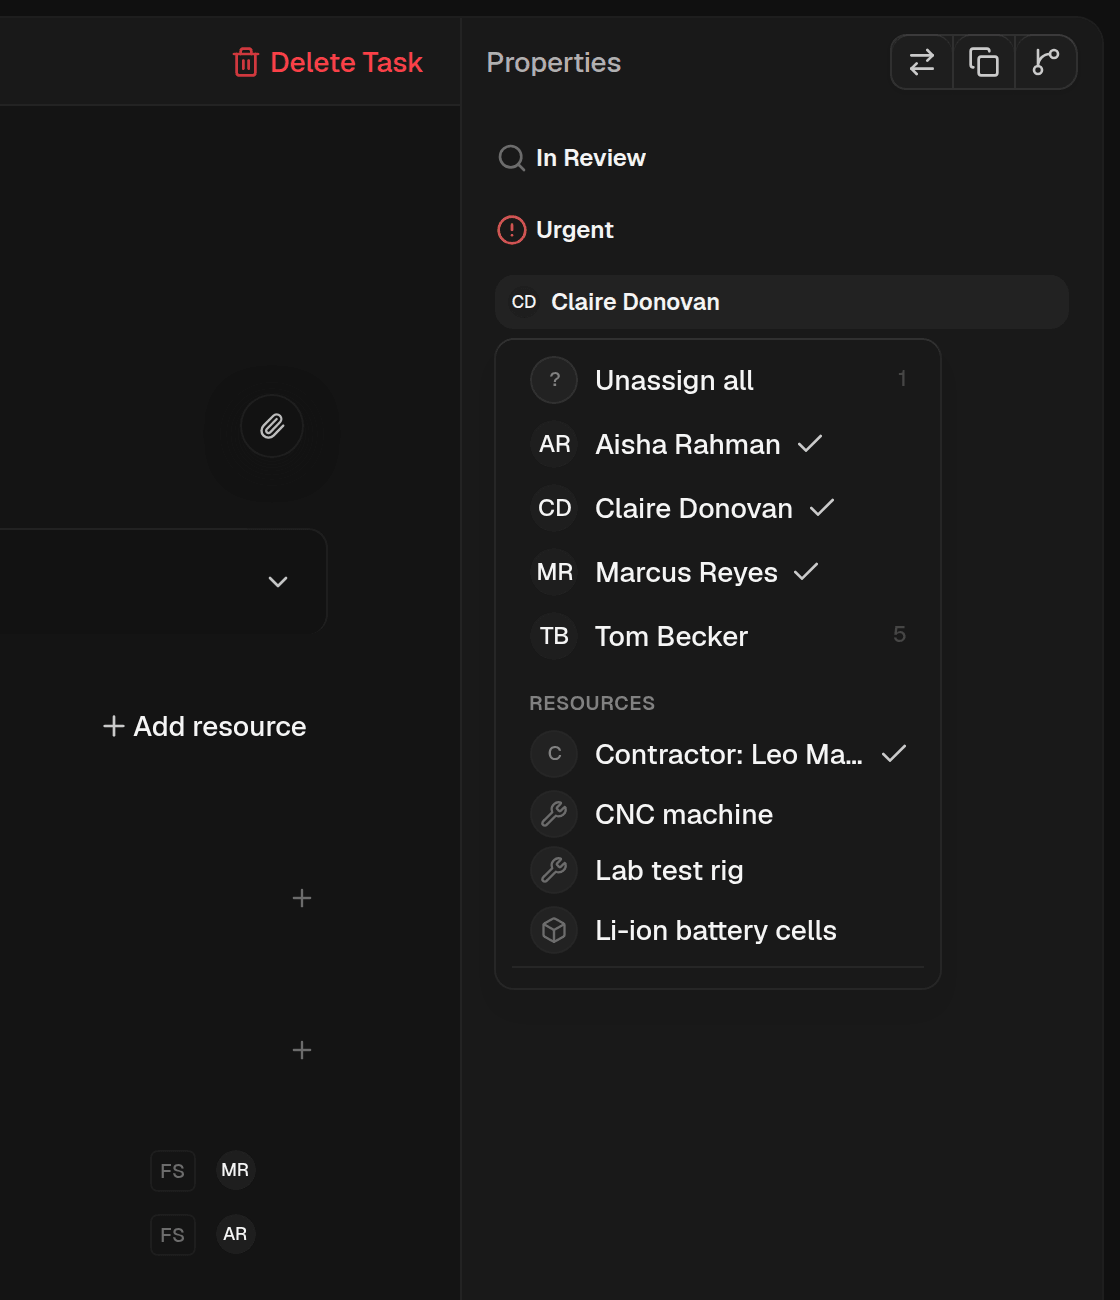
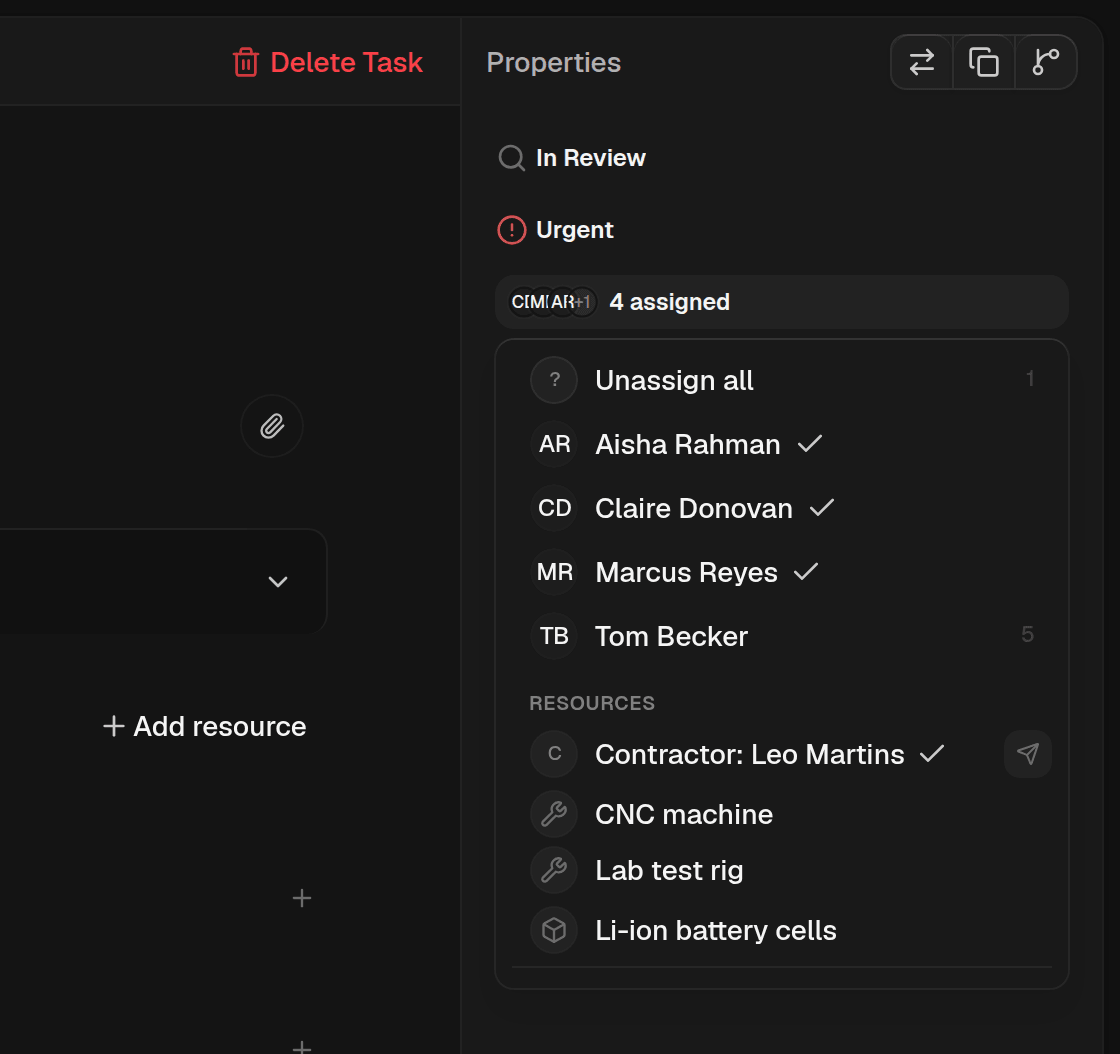
docs(readme): retake the custom field and assignee screenshots
Retake 07b, 08 and 08c with the demo tool after merging main: the inline
custom field editor, the assignee trigger that shows every assignee, and
the wider picker with the invite button for a person resource. Adjust the
capture scenes to the new controls.

Claude-Session: https://claude.ai/code/session_01C6D3Mm2aELhmxTHQTVgKPz

diff --git a/README.md b/README.md
@@ -129,7 +129,8 @@ Set the working weekdays and holidays of a workspace. The Gantt chart shades non
 </p>
 
 <p align="center">
-  <img src="docs/images/kaneo-pro/07b-custom-fields-settings.png" alt="Workspace custom field settings" />
+  <img src="docs/images/kaneo-pro/07b-custom-fields-settings.png" alt="Editing a workspace custom field in the settings" />
+  <br /><sub>Edit a field after creation. The type stays fixed.</sub>
 </p>
 
 ### Tasks
@@ -146,7 +147,7 @@ Set the working weekdays and holidays of a workspace. The Gantt chart shades non
 
 <p align="center">
   <img src="docs/images/kaneo-pro/08c-task-assignees.png" alt="Several assignees and a resource on one task" width="49%" />
-  <br /><sub>Several assignees and a resource on one task.</sub>
+  <br /><sub>Several assignees and a resource on one task. The paper-plane button invites the person resource.</sub>
 </p>
 
 ### Project-level access
